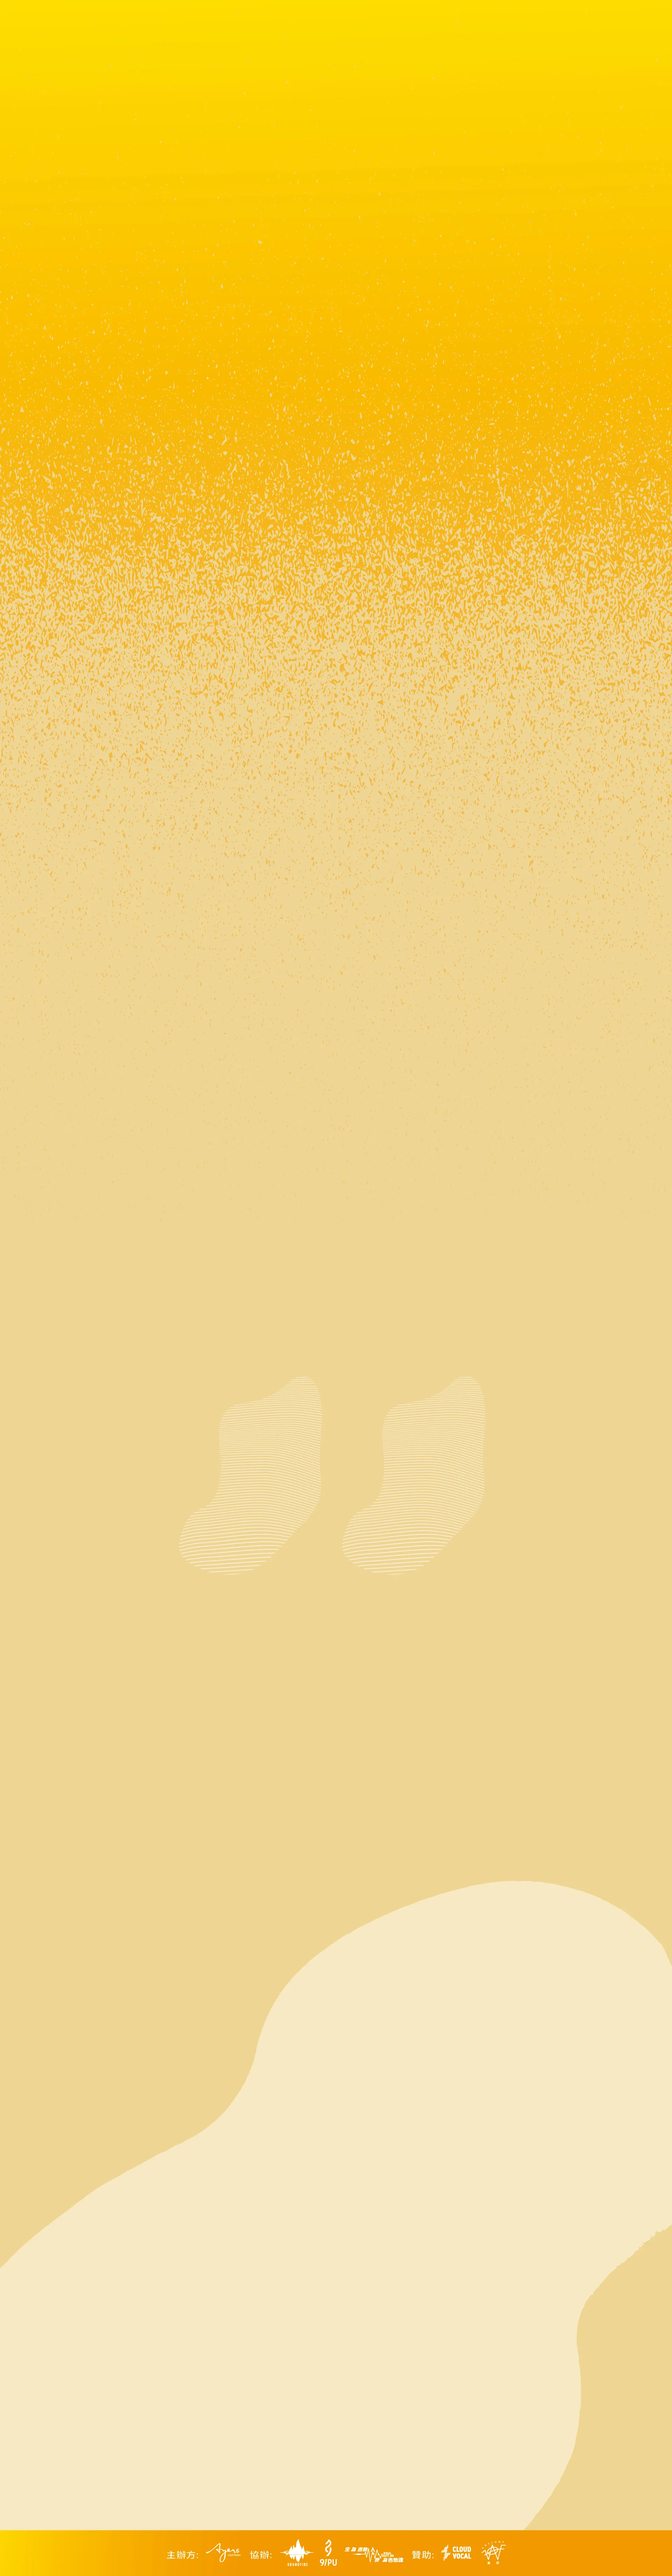
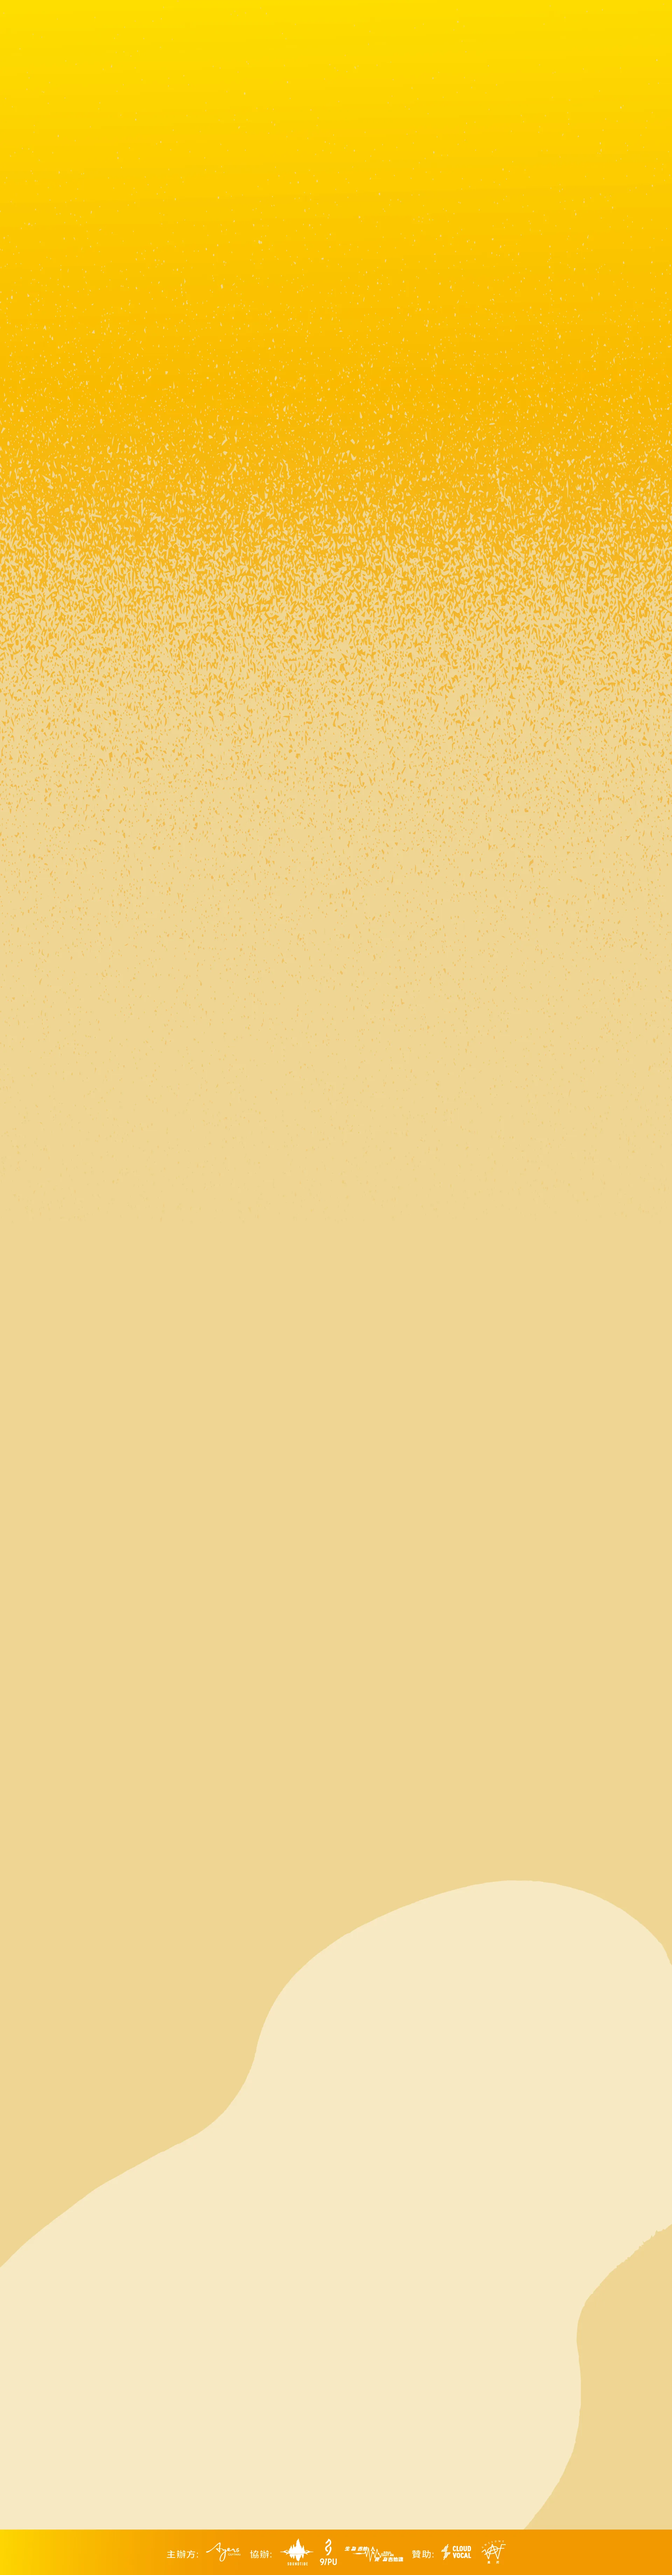
feat(quiz): update all 8 soul result backgrounds and guitar assets to new design
- Replace bg.webp for all 8 soul types with new single responsive background (1920px)
- Add bg.webp for fire (was previously missing)
- Delete all bg-mobile.webp files (no longer needed)
- Update guitar-1/2.webp and char-right.webp for all 8 soul types with new assets
- Delete char-left.webp, guitar-title-1/2.webp from all soul folders (removed from design)
- Update SoulGuitarResult.tsx: remove isDesktop/matchMedia logic, use single bg.webp
- Change backgroundSize from '100% auto' to 'cover' for proper responsive display
- Remove char-left img element and guitar-title overlay img from result layout

Changed region(s): [[0.5312, 0.5292, 0.7188, 0.6225], [0.2812, 0.5292, 0.4688, 0.6225]]

diff --git a/frontend/src/pages/SoulGuitarResult.tsx b/frontend/src/pages/SoulGuitarResult.tsx
@@ -378,13 +378,6 @@ function FullResultPage({ resultKey, folder, layout, onLayoutChange }: {
               draggable={false}
             />
             <img
-              src={`${RF}/char-left.webp`}
-              alt=""
-              style={{ width: `${C.charLeft.w}%`, top: `${C.charLeft.mt}%`, left: `${C.charLeft.x}%`, zIndex: C.charLeft.z }}
-              className="absolute h-auto object-contain"
-              draggable={false}
-            />
-            <img
               src={`${RF}/char-right.webp`}
               alt={result.colorName}
               style={{ width: `${C.charRight.w}%`, top: `${C.charRight.mt}%`, right: `${C.charRight.x}%`, zIndex: C.charRight.z }}
@@ -462,7 +455,6 @@ function FullResultPage({ resultKey, folder, layout, onLayoutChange }: {
               >
                 <div className="relative w-full h-[280px] overflow-hidden">
                   <img src={`${RF}/guitar-${i}.webp`} alt="Ayers 吉他" className="w-full h-full object-contain object-bottom" draggable={false} />
-                  <img src={`${RF}/guitar-title-${i}.webp`} alt="" className="absolute top-2 left-1 w-[50%] h-auto" draggable={false} />
                 </div>
                 <motion.button type="button" className="w-[90%]" whileTap={{ scale: 0.93 }}>
                   <img src={`${RF}/btn-unlock-${i}.webp`} alt="解鎖它的音色" className="w-full h-auto" draggable={false} />
@@ -823,14 +815,6 @@ export default function SoulGuitarResult() {
   const shouldRedirect = !!resultKey && !fromQuiz && !isEditMode && !isSharedLink;
 
   const folder = resultKey ? RESULT_FOLDER[resultKey] : null;
-  const [isDesktop, setIsDesktop] = useState(() => window.matchMedia('(min-width: 768px)').matches);
-
-  useEffect(() => {
-    const mq = window.matchMedia('(min-width: 768px)');
-    const handler = (e: MediaQueryListEvent) => setIsDesktop(e.matches);
-    mq.addEventListener('change', handler);
-    return () => mq.removeEventListener('change', handler);
-  }, []);
 
   // 清除 sessionStorage flag（只跑一次，在 render 之後）
   useEffect(() => {
@@ -869,8 +853,7 @@ export default function SoulGuitarResult() {
 
   const resultData = RESULTS[resultKey];
 
-  const bgFile = isDesktop ? 'bg.webp' : 'bg-mobile.webp';
-  const bgUrl = folder ? `${BASE}/result/${folder}/${bgFile}` : '';
+  const bgUrl = folder ? `${BASE}/result/${folder}/bg.webp` : '';
 
   return (
     <div
@@ -878,7 +861,7 @@ export default function SoulGuitarResult() {
       style={{
         backgroundColor: resultData.themeColor + '18',
         backgroundImage: bgUrl ? `url(${bgUrl})` : undefined,
-        backgroundSize: '100% auto',
+        backgroundSize: 'cover',
         backgroundRepeat: 'no-repeat',
         backgroundPosition: 'top center',
       }}
